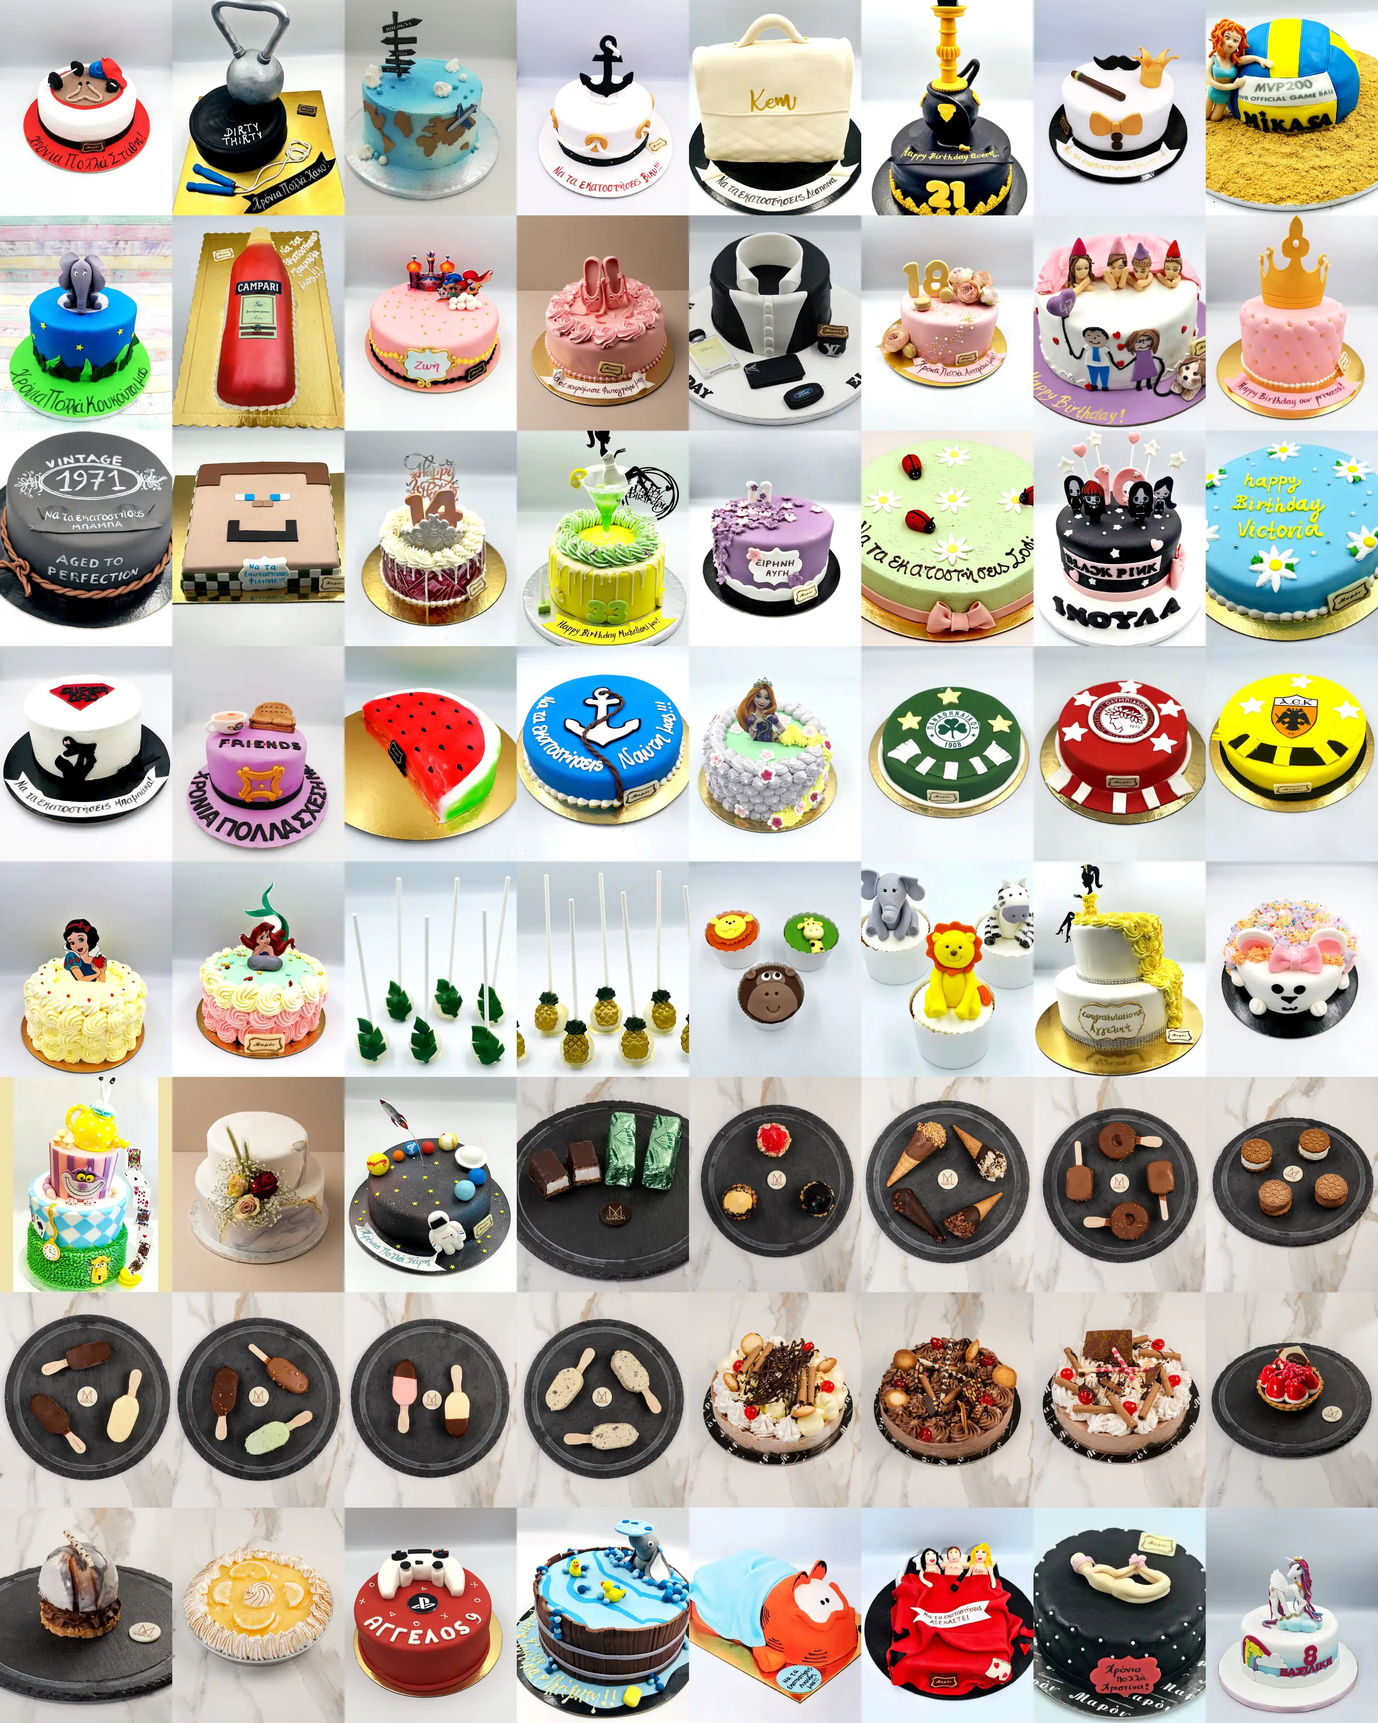
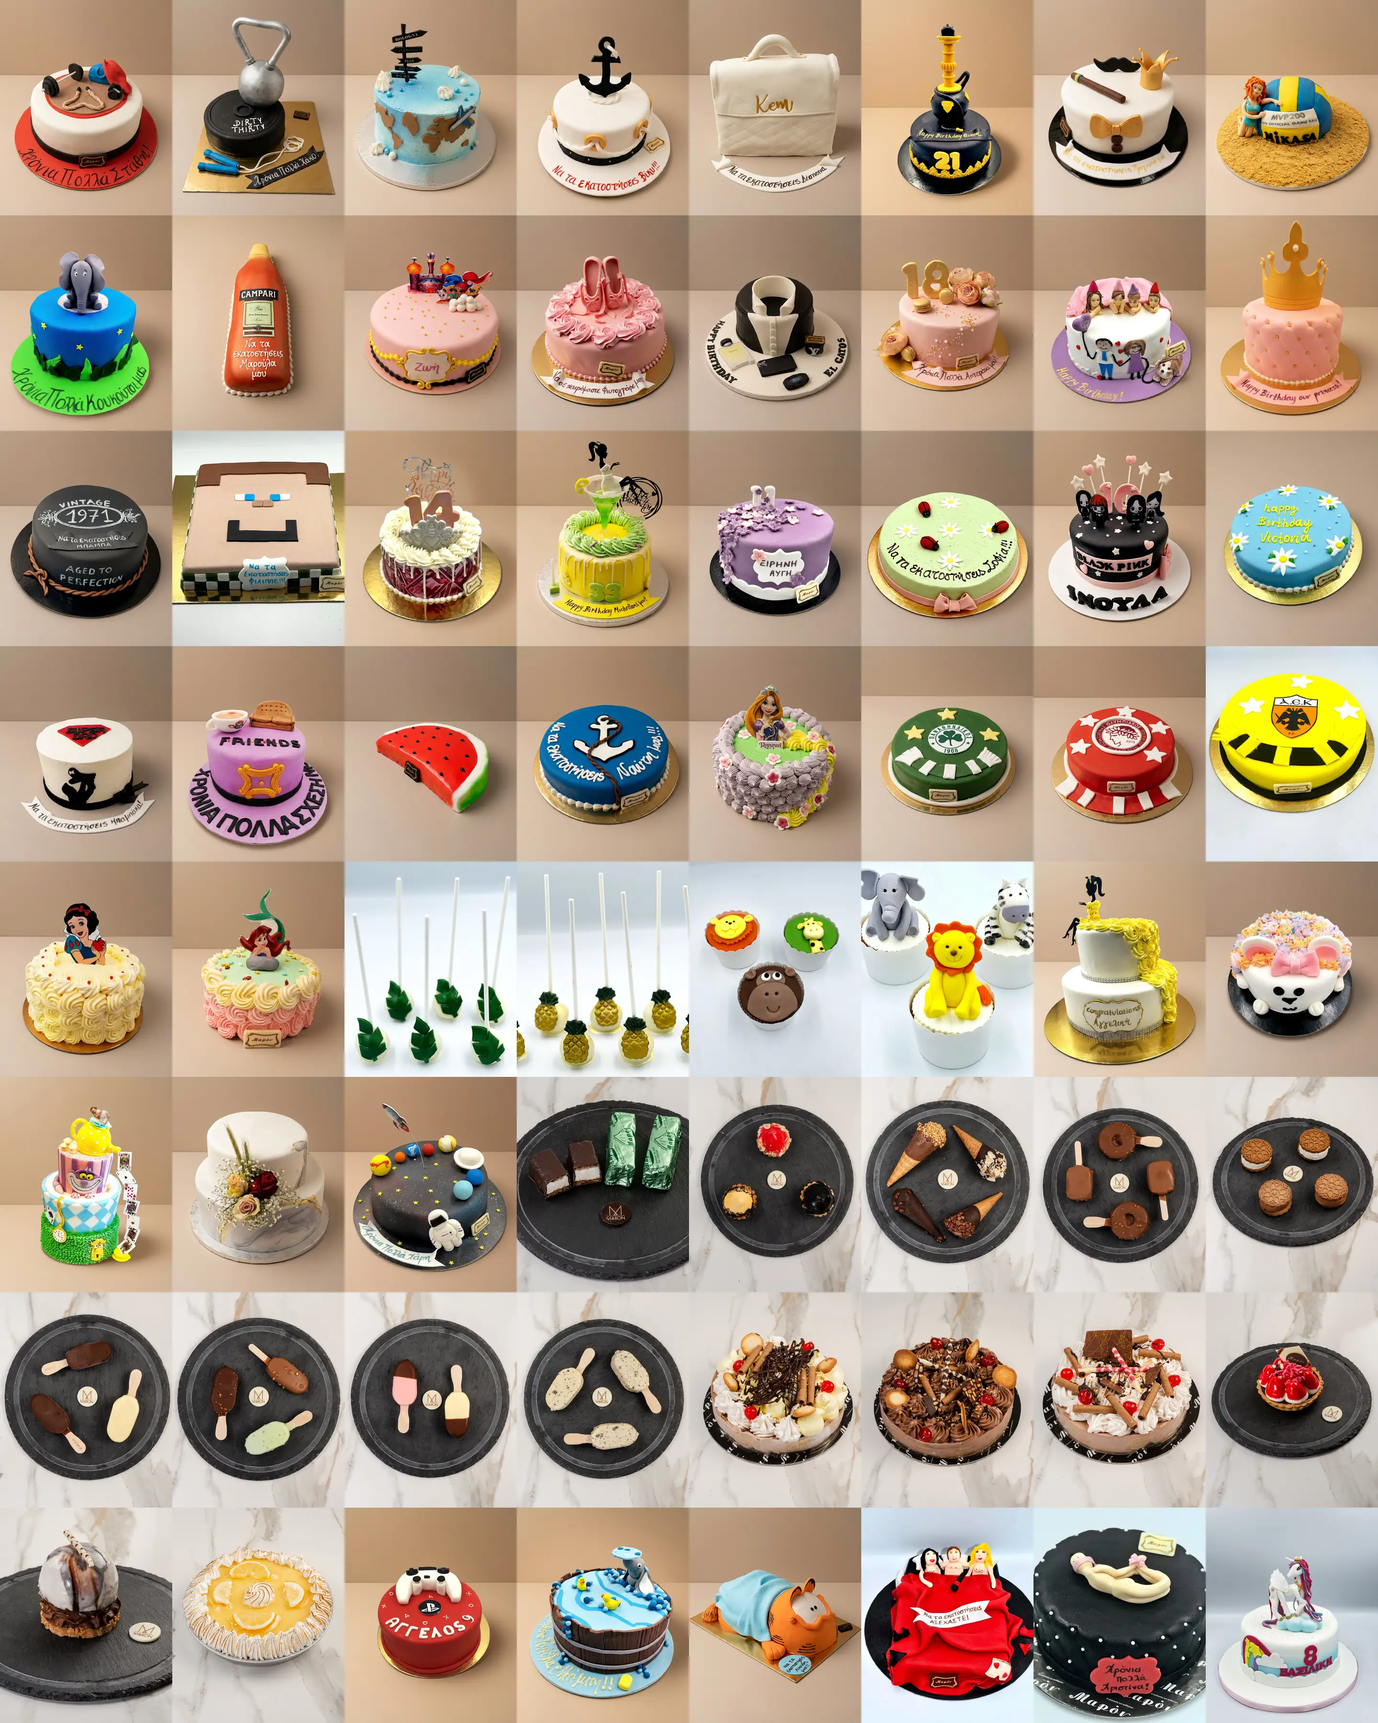
Restyled photos: 375 / 900

diff --git a/proionta.html b/proionta.html
@@ -8,7 +8,7 @@
 <meta name="robots" content="noindex, nofollow">
 <link rel="preconnect" href="https://fonts.googleapis.com"><link rel="preconnect" href="https://fonts.gstatic.com" crossorigin>
 <link rel="stylesheet" href="https://fonts.googleapis.com/css2?family=Commissioner:wght@300;400;500&amp;family=Cormorant+Garamond:ital,wght@1,400;1,500&amp;display=swap">
-<link rel="stylesheet" href="assets/site.css?v=1791317318">
+<link rel="stylesheet" href="assets/site.css?v=1791319962">
 </head>
 <body data-page="catalogue">
 <p class="draftnote">Draft του νέου site: το περιεχόμενο έχει μεταφερθεί από το maron-glykos.gr, δεν είναι ακόμα online.</p>
@@ -76,6 +76,6 @@
   <a href="https://www.instagram.com/maron_greece/" target="_blank" rel="noopener"><svg viewBox="0 0 24 24" aria-hidden="true"><rect x="3" y="3" width="18" height="18" rx="5" fill="none" stroke="currentColor" stroke-width="1.6"/><circle cx="12" cy="12" r="4.2" fill="none" stroke="currentColor" stroke-width="1.6"/><circle cx="17.4" cy="6.6" r="1.1" fill="currentColor"/></svg>Instagram</a>
   <a href="tel:+302105021427"><svg viewBox="0 0 24 24" aria-hidden="true"><path fill="none" stroke="currentColor" stroke-width="1.6" d="M5 3.5h3.5l1.6 4.2-2.2 1.4a11 11 0 0 0 5 5l1.4-2.2 4.2 1.6V17a2.5 2.5 0 0 1-2.7 2.5A15.5 15.5 0 0 1 2.5 6.2 2.5 2.5 0 0 1 5 3.5z"/></svg>Κλήση</a>
 </nav>
-<script src="assets/site.js?v=1791317318"></script>
+<script src="assets/site.js?v=1791319962"></script>
 </body>
 </html>

diff --git a/katigoria.html b/katigoria.html
@@ -8,7 +8,7 @@
 <meta name="robots" content="noindex, nofollow">
 <link rel="preconnect" href="https://fonts.googleapis.com"><link rel="preconnect" href="https://fonts.gstatic.com" crossorigin>
 <link rel="stylesheet" href="https://fonts.googleapis.com/css2?family=Commissioner:wght@300;400;500&amp;family=Cormorant+Garamond:ital,wght@1,400;1,500&amp;display=swap">
-<link rel="stylesheet" href="assets/site.css?v=1791317318">
+<link rel="stylesheet" href="assets/site.css?v=1791319962">
 </head>
 <body data-page="category">
 <p class="draftnote">Draft του νέου site: το περιεχόμενο έχει μεταφερθεί από το maron-glykos.gr, δεν είναι ακόμα online.</p>
@@ -59,6 +59,6 @@
   <a href="https://www.instagram.com/maron_greece/" target="_blank" rel="noopener"><svg viewBox="0 0 24 24" aria-hidden="true"><rect x="3" y="3" width="18" height="18" rx="5" fill="none" stroke="currentColor" stroke-width="1.6"/><circle cx="12" cy="12" r="4.2" fill="none" stroke="currentColor" stroke-width="1.6"/><circle cx="17.4" cy="6.6" r="1.1" fill="currentColor"/></svg>Instagram</a>
   <a href="tel:+302105021427"><svg viewBox="0 0 24 24" aria-hidden="true"><path fill="none" stroke="currentColor" stroke-width="1.6" d="M5 3.5h3.5l1.6 4.2-2.2 1.4a11 11 0 0 0 5 5l1.4-2.2 4.2 1.6V17a2.5 2.5 0 0 1-2.7 2.5A15.5 15.5 0 0 1 2.5 6.2 2.5 2.5 0 0 1 5 3.5z"/></svg>Κλήση</a>
 </nav>
-<script src="assets/site.js?v=1791317318"></script>
+<script src="assets/site.js?v=1791319962"></script>
 </body>
 </html>

diff --git a/proion.html b/proion.html
@@ -8,7 +8,7 @@
 <meta name="robots" content="noindex, nofollow">
 <link rel="preconnect" href="https://fonts.googleapis.com"><link rel="preconnect" href="https://fonts.gstatic.com" crossorigin>
 <link rel="stylesheet" href="https://fonts.googleapis.com/css2?family=Commissioner:wght@300;400;500&amp;family=Cormorant+Garamond:ital,wght@1,400;1,500&amp;display=swap">
-<link rel="stylesheet" href="assets/site.css?v=1791317318">
+<link rel="stylesheet" href="assets/site.css?v=1791319962">
 </head>
 <body data-page="product">
 <p class="draftnote">Draft του νέου site: το περιεχόμενο έχει μεταφερθεί από το maron-glykos.gr, δεν είναι ακόμα online.</p>
@@ -69,6 +69,6 @@
   <a href="https://www.instagram.com/maron_greece/" target="_blank" rel="noopener"><svg viewBox="0 0 24 24" aria-hidden="true"><rect x="3" y="3" width="18" height="18" rx="5" fill="none" stroke="currentColor" stroke-width="1.6"/><circle cx="12" cy="12" r="4.2" fill="none" stroke="currentColor" stroke-width="1.6"/><circle cx="17.4" cy="6.6" r="1.1" fill="currentColor"/></svg>Instagram</a>
   <a href="tel:+302105021427"><svg viewBox="0 0 24 24" aria-hidden="true"><path fill="none" stroke="currentColor" stroke-width="1.6" d="M5 3.5h3.5l1.6 4.2-2.2 1.4a11 11 0 0 0 5 5l1.4-2.2 4.2 1.6V17a2.5 2.5 0 0 1-2.7 2.5A15.5 15.5 0 0 1 2.5 6.2 2.5 2.5 0 0 1 5 3.5z"/></svg>Κλήση</a>
 </nav>
-<script src="assets/site.js?v=1791317318"></script>
+<script src="assets/site.js?v=1791319962"></script>
 </body>
 </html>

diff --git a/index.html b/index.html
@@ -8,7 +8,7 @@
 <meta name="robots" content="noindex, nofollow">
 <link rel="preconnect" href="https://fonts.googleapis.com"><link rel="preconnect" href="https://fonts.gstatic.com" crossorigin>
 <link rel="stylesheet" href="https://fonts.googleapis.com/css2?family=Commissioner:wght@300;400;500&amp;family=Cormorant+Garamond:ital,wght@1,400;1,500&amp;display=swap">
-<link rel="stylesheet" href="assets/site.css?v=1791317318">
+<link rel="stylesheet" href="assets/site.css?v=1791319962">
 </head>
 <body data-page="home">
 <p class="draftnote">Draft του νέου site: το περιεχόμενο έχει μεταφερθεί από το maron-glykos.gr, δεν είναι ακόμα online.</p>
@@ -129,6 +129,6 @@
   <a href="https://www.instagram.com/maron_greece/" target="_blank" rel="noopener"><svg viewBox="0 0 24 24" aria-hidden="true"><rect x="3" y="3" width="18" height="18" rx="5" fill="none" stroke="currentColor" stroke-width="1.6"/><circle cx="12" cy="12" r="4.2" fill="none" stroke="currentColor" stroke-width="1.6"/><circle cx="17.4" cy="6.6" r="1.1" fill="currentColor"/></svg>Instagram</a>
   <a href="tel:+302105021427"><svg viewBox="0 0 24 24" aria-hidden="true"><path fill="none" stroke="currentColor" stroke-width="1.6" d="M5 3.5h3.5l1.6 4.2-2.2 1.4a11 11 0 0 0 5 5l1.4-2.2 4.2 1.6V17a2.5 2.5 0 0 1-2.7 2.5A15.5 15.5 0 0 1 2.5 6.2 2.5 2.5 0 0 1 5 3.5z"/></svg>Κλήση</a>
 </nav>
-<script src="assets/site.js?v=1791317318"></script>
+<script src="assets/site.js?v=1791319962"></script>
 </body>
 </html>

diff --git a/apokries.html b/apokries.html
@@ -8,7 +8,7 @@
 <meta name="robots" content="noindex, nofollow">
 <link rel="preconnect" href="https://fonts.googleapis.com"><link rel="preconnect" href="https://fonts.gstatic.com" crossorigin>
 <link rel="stylesheet" href="https://fonts.googleapis.com/css2?family=Commissioner:wght@300;400;500&amp;family=Cormorant+Garamond:ital,wght@1,400;1,500&amp;display=swap">
-<link rel="stylesheet" href="assets/site.css?v=1791317318">
+<link rel="stylesheet" href="assets/site.css?v=1791319962">
 </head>
 <body data-page="page">
 <p class="draftnote">Draft του νέου site: το περιεχόμενο έχει μεταφερθεί από το maron-glykos.gr, δεν είναι ακόμα online.</p>
@@ -56,6 +56,6 @@
   <a href="https://www.instagram.com/maron_greece/" target="_blank" rel="noopener"><svg viewBox="0 0 24 24" aria-hidden="true"><rect x="3" y="3" width="18" height="18" rx="5" fill="none" stroke="currentColor" stroke-width="1.6"/><circle cx="12" cy="12" r="4.2" fill="none" stroke="currentColor" stroke-width="1.6"/><circle cx="17.4" cy="6.6" r="1.1" fill="currentColor"/></svg>Instagram</a>
   <a href="tel:+302105021427"><svg viewBox="0 0 24 24" aria-hidden="true"><path fill="none" stroke="currentColor" stroke-width="1.6" d="M5 3.5h3.5l1.6 4.2-2.2 1.4a11 11 0 0 0 5 5l1.4-2.2 4.2 1.6V17a2.5 2.5 0 0 1-2.7 2.5A15.5 15.5 0 0 1 2.5 6.2 2.5 2.5 0 0 1 5 3.5z"/></svg>Κλήση</a>
 </nav>
-<script src="assets/site.js?v=1791317318"></script>
+<script src="assets/site.js?v=1791319962"></script>
 </body>
 </html>

diff --git a/blog-aromata-fthinoporou-zaxaroplastiki.html b/blog-aromata-fthinoporou-zaxaroplastiki.html
@@ -8,7 +8,7 @@
 <meta name="robots" content="noindex, nofollow">
 <link rel="preconnect" href="https://fonts.googleapis.com"><link rel="preconnect" href="https://fonts.gstatic.com" crossorigin>
 <link rel="stylesheet" href="https://fonts.googleapis.com/css2?family=Commissioner:wght@300;400;500&amp;family=Cormorant+Garamond:ital,wght@1,400;1,500&amp;display=swap">
-<link rel="stylesheet" href="assets/site.css?v=1791317318">
+<link rel="stylesheet" href="assets/site.css?v=1791319962">
 </head>
 <body data-page="page">
 <p class="draftnote">Draft του νέου site: το περιεχόμενο έχει μεταφερθεί από το maron-glykos.gr, δεν είναι ακόμα online.</p>
@@ -71,6 +71,6 @@
   <a href="https://www.instagram.com/maron_greece/" target="_blank" rel="noopener"><svg viewBox="0 0 24 24" aria-hidden="true"><rect x="3" y="3" width="18" height="18" rx="5" fill="none" stroke="currentColor" stroke-width="1.6"/><circle cx="12" cy="12" r="4.2" fill="none" stroke="currentColor" stroke-width="1.6"/><circle cx="17.4" cy="6.6" r="1.1" fill="currentColor"/></svg>Instagram</a>
   <a href="tel:+302105021427"><svg viewBox="0 0 24 24" aria-hidden="true"><path fill="none" stroke="currentColor" stroke-width="1.6" d="M5 3.5h3.5l1.6 4.2-2.2 1.4a11 11 0 0 0 5 5l1.4-2.2 4.2 1.6V17a2.5 2.5 0 0 1-2.7 2.5A15.5 15.5 0 0 1 2.5 6.2 2.5 2.5 0 0 1 5 3.5z"/></svg>Κλήση</a>
 </nav>
-<script src="assets/site.js?v=1791317318"></script>
+<script src="assets/site.js?v=1791319962"></script>
 </body>
 </html>

diff --git a/blog-brookie-giati-egine-viral.html b/blog-brookie-giati-egine-viral.html
@@ -8,7 +8,7 @@
 <meta name="robots" content="noindex, nofollow">
 <link rel="preconnect" href="https://fonts.googleapis.com"><link rel="preconnect" href="https://fonts.gstatic.com" crossorigin>
 <link rel="stylesheet" href="https://fonts.googleapis.com/css2?family=Commissioner:wght@300;400;500&amp;family=Cormorant+Garamond:ital,wght@1,400;1,500&amp;display=swap">
-<link rel="stylesheet" href="assets/site.css?v=1791317318">
+<link rel="stylesheet" href="assets/site.css?v=1791319962">
 </head>
 <body data-page="page">
 <p class="draftnote">Draft του νέου site: το περιεχόμενο έχει μεταφερθεί από το maron-glykos.gr, δεν είναι ακόμα online.</p>
@@ -73,6 +73,6 @@
   <a href="https://www.instagram.com/maron_greece/" target="_blank" rel="noopener"><svg viewBox="0 0 24 24" aria-hidden="true"><rect x="3" y="3" width="18" height="18" rx="5" fill="none" stroke="currentColor" stroke-width="1.6"/><circle cx="12" cy="12" r="4.2" fill="none" stroke="currentColor" stroke-width="1.6"/><circle cx="17.4" cy="6.6" r="1.1" fill="currentColor"/></svg>Instagram</a>
   <a href="tel:+302105021427"><svg viewBox="0 0 24 24" aria-hidden="true"><path fill="none" stroke="currentColor" stroke-width="1.6" d="M5 3.5h3.5l1.6 4.2-2.2 1.4a11 11 0 0 0 5 5l1.4-2.2 4.2 1.6V17a2.5 2.5 0 0 1-2.7 2.5A15.5 15.5 0 0 1 2.5 6.2 2.5 2.5 0 0 1 5 3.5z"/></svg>Κλήση</a>
 </nav>
-<script src="assets/site.js?v=1791317318"></script>
+<script src="assets/site.js?v=1791319962"></script>
 </body>
 </html>

diff --git a/blog-dimitris-dimitra-glyko-giortis.html b/blog-dimitris-dimitra-glyko-giortis.html
@@ -8,7 +8,7 @@
 <meta name="robots" content="noindex, nofollow">
 <link rel="preconnect" href="https://fonts.googleapis.com"><link rel="preconnect" href="https://fonts.gstatic.com" crossorigin>
 <link rel="stylesheet" href="https://fonts.googleapis.com/css2?family=Commissioner:wght@300;400;500&amp;family=Cormorant+Garamond:ital,wght@1,400;1,500&amp;display=swap">
-<link rel="stylesheet" href="assets/site.css?v=1791317318">
+<link rel="stylesheet" href="assets/site.css?v=1791319962">
 </head>
 <body data-page="page">
 <p class="draftnote">Draft του νέου site: το περιεχόμενο έχει μεταφερθεί από το maron-glykos.gr, δεν είναι ακόμα online.</p>
@@ -74,6 +74,6 @@
   <a href="https://www.instagram.com/maron_greece/" target="_blank" rel="noopener"><svg viewBox="0 0 24 24" aria-hidden="true"><rect x="3" y="3" width="18" height="18" rx="5" fill="none" stroke="currentColor" stroke-width="1.6"/><circle cx="12" cy="12" r="4.2" fill="none" stroke="currentColor" stroke-width="1.6"/><circle cx="17.4" cy="6.6" r="1.1" fill="currentColor"/></svg>Instagram</a>
   <a href="tel:+302105021427"><svg viewBox="0 0 24 24" aria-hidden="true"><path fill="none" stroke="currentColor" stroke-width="1.6" d="M5 3.5h3.5l1.6 4.2-2.2 1.4a11 11 0 0 0 5 5l1.4-2.2 4.2 1.6V17a2.5 2.5 0 0 1-2.7 2.5A15.5 15.5 0 0 1 2.5 6.2 2.5 2.5 0 0 1 5 3.5z"/></svg>Κλήση</a>
 </nav>
-<script src="assets/site.js?v=1791317318"></script>
+<script src="assets/site.js?v=1791319962"></script>
 </body>
 </html>

diff --git a/blog-epistimi-glykou.html b/blog-epistimi-glykou.html
@@ -8,7 +8,7 @@
 <meta name="robots" content="noindex, nofollow">
 <link rel="preconnect" href="https://fonts.googleapis.com"><link rel="preconnect" href="https://fonts.gstatic.com" crossorigin>
 <link rel="stylesheet" href="https://fonts.googleapis.com/css2?family=Commissioner:wght@300;400;500&amp;family=Cormorant+Garamond:ital,wght@1,400;1,500&amp;display=swap">
-<link rel="stylesheet" href="assets/site.css?v=1791317318">
+<link rel="stylesheet" href="assets/site.css?v=1791319962">
 </head>
 <body data-page="page">
 <p class="draftnote">Draft του νέου site: το περιεχόμενο έχει μεταφερθεί από το maron-glykos.gr, δεν είναι ακόμα online.</p>
@@ -80,6 +80,6 @@
   <a href="https://www.instagram.com/maron_greece/" target="_blank" rel="noopener"><svg viewBox="0 0 24 24" aria-hidden="true"><rect x="3" y="3" width="18" height="18" rx="5" fill="none" stroke="currentColor" stroke-width="1.6"/><circle cx="12" cy="12" r="4.2" fill="none" stroke="currentColor" stroke-width="1.6"/><circle cx="17.4" cy="6.6" r="1.1" fill="currentColor"/></svg>Instagram</a>
   <a href="tel:+302105021427"><svg viewBox="0 0 24 24" aria-hidden="true"><path fill="none" stroke="currentColor" stroke-width="1.6" d="M5 3.5h3.5l1.6 4.2-2.2 1.4a11 11 0 0 0 5 5l1.4-2.2 4.2 1.6V17a2.5 2.5 0 0 1-2.7 2.5A15.5 15.5 0 0 1 2.5 6.2 2.5 2.5 0 0 1 5 3.5z"/></svg>Κλήση</a>
 </nav>
-<script src="assets/site.js?v=1791317318"></script>
+<script src="assets/site.js?v=1791319962"></script>
 </body>
 </html>

diff --git a/blog-istoria-glykou.html b/blog-istoria-glykou.html
@@ -8,7 +8,7 @@
 <meta name="robots" content="noindex, nofollow">
 <link rel="preconnect" href="https://fonts.googleapis.com"><link rel="preconnect" href="https://fonts.gstatic.com" crossorigin>
 <link rel="stylesheet" href="https://fonts.googleapis.com/css2?family=Commissioner:wght@300;400;500&amp;family=Cormorant+Garamond:ital,wght@1,400;1,500&amp;display=swap">
-<link rel="stylesheet" href="assets/site.css?v=1791317318">
+<link rel="stylesheet" href="assets/site.css?v=1791319962">
 </head>
 <body data-page="page">
 <p class="draftnote">Draft του νέου site: το περιεχόμενο έχει μεταφερθεί από το maron-glykos.gr, δεν είναι ακόμα online.</p>
@@ -78,6 +78,6 @@
   <a href="https://www.instagram.com/maron_greece/" target="_blank" rel="noopener"><svg viewBox="0 0 24 24" aria-hidden="true"><rect x="3" y="3" width="18" height="18" rx="5" fill="none" stroke="currentColor" stroke-width="1.6"/><circle cx="12" cy="12" r="4.2" fill="none" stroke="currentColor" stroke-width="1.6"/><circle cx="17.4" cy="6.6" r="1.1" fill="currentColor"/></svg>Instagram</a>
   <a href="tel:+302105021427"><svg viewBox="0 0 24 24" aria-hidden="true"><path fill="none" stroke="currentColor" stroke-width="1.6" d="M5 3.5h3.5l1.6 4.2-2.2 1.4a11 11 0 0 0 5 5l1.4-2.2 4.2 1.6V17a2.5 2.5 0 0 1-2.7 2.5A15.5 15.5 0 0 1 2.5 6.2 2.5 2.5 0 0 1 5 3.5z"/></svg>Κλήση</a>
 </nav>
-<script src="assets/site.js?v=1791317318"></script>
+<script src="assets/site.js?v=1791319962"></script>
 </body>
 </html>

diff --git a/blog-pasxa-egkefalos.html b/blog-pasxa-egkefalos.html
@@ -8,7 +8,7 @@
 <meta name="robots" content="noindex, nofollow">
 <link rel="preconnect" href="https://fonts.googleapis.com"><link rel="preconnect" href="https://fonts.gstatic.com" crossorigin>
 <link rel="stylesheet" href="https://fonts.googleapis.com/css2?family=Commissioner:wght@300;400;500&amp;family=Cormorant+Garamond:ital,wght@1,400;1,500&amp;display=swap">
-<link rel="stylesheet" href="assets/site.css?v=1791317318">
+<link rel="stylesheet" href="assets/site.css?v=1791319962">
 </head>
 <body data-page="page">
 <p class="draftnote">Draft του νέου site: το περιεχόμενο έχει μεταφερθεί από το maron-glykos.gr, δεν είναι ακόμα online.</p>
@@ -78,6 +78,6 @@
   <a href="https://www.instagram.com/maron_greece/" target="_blank" rel="noopener"><svg viewBox="0 0 24 24" aria-hidden="true"><rect x="3" y="3" width="18" height="18" rx="5" fill="none" stroke="currentColor" stroke-width="1.6"/><circle cx="12" cy="12" r="4.2" fill="none" stroke="currentColor" stroke-width="1.6"/><circle cx="17.4" cy="6.6" r="1.1" fill="currentColor"/></svg>Instagram</a>
   <a href="tel:+302105021427"><svg viewBox="0 0 24 24" aria-hidden="true"><path fill="none" stroke="currentColor" stroke-width="1.6" d="M5 3.5h3.5l1.6 4.2-2.2 1.4a11 11 0 0 0 5 5l1.4-2.2 4.2 1.6V17a2.5 2.5 0 0 1-2.7 2.5A15.5 15.5 0 0 1 2.5 6.2 2.5 2.5 0 0 1 5 3.5z"/></svg>Κλήση</a>
 </nav>
-<script src="assets/site.js?v=1791317318"></script>
+<script src="assets/site.js?v=1791319962"></script>
 </body>
 </html>

diff --git a/blog.html b/blog.html
@@ -8,7 +8,7 @@
 <meta name="robots" content="noindex, nofollow">
 <link rel="preconnect" href="https://fonts.googleapis.com"><link rel="preconnect" href="https://fonts.gstatic.com" crossorigin>
 <link rel="stylesheet" href="https://fonts.googleapis.com/css2?family=Commissioner:wght@300;400;500&amp;family=Cormorant+Garamond:ital,wght@1,400;1,500&amp;display=swap">
-<link rel="stylesheet" href="assets/site.css?v=1791317318">
+<link rel="stylesheet" href="assets/site.css?v=1791319962">
 </head>
 <body data-page="page">
 <p class="draftnote">Draft του νέου site: το περιεχόμενο έχει μεταφερθεί από το maron-glykos.gr, δεν είναι ακόμα online.</p>
@@ -54,6 +54,6 @@
   <a href="https://www.instagram.com/maron_greece/" target="_blank" rel="noopener"><svg viewBox="0 0 24 24" aria-hidden="true"><rect x="3" y="3" width="18" height="18" rx="5" fill="none" stroke="currentColor" stroke-width="1.6"/><circle cx="12" cy="12" r="4.2" fill="none" stroke="currentColor" stroke-width="1.6"/><circle cx="17.4" cy="6.6" r="1.1" fill="currentColor"/></svg>Instagram</a>
   <a href="tel:+302105021427"><svg viewBox="0 0 24 24" aria-hidden="true"><path fill="none" stroke="currentColor" stroke-width="1.6" d="M5 3.5h3.5l1.6 4.2-2.2 1.4a11 11 0 0 0 5 5l1.4-2.2 4.2 1.6V17a2.5 2.5 0 0 1-2.7 2.5A15.5 15.5 0 0 1 2.5 6.2 2.5 2.5 0 0 1 5 3.5z"/></svg>Κλήση</a>
 </nav>
-<script src="assets/site.js?v=1791317318"></script>
+<script src="assets/site.js?v=1791319962"></script>
 </body>
 </html>
